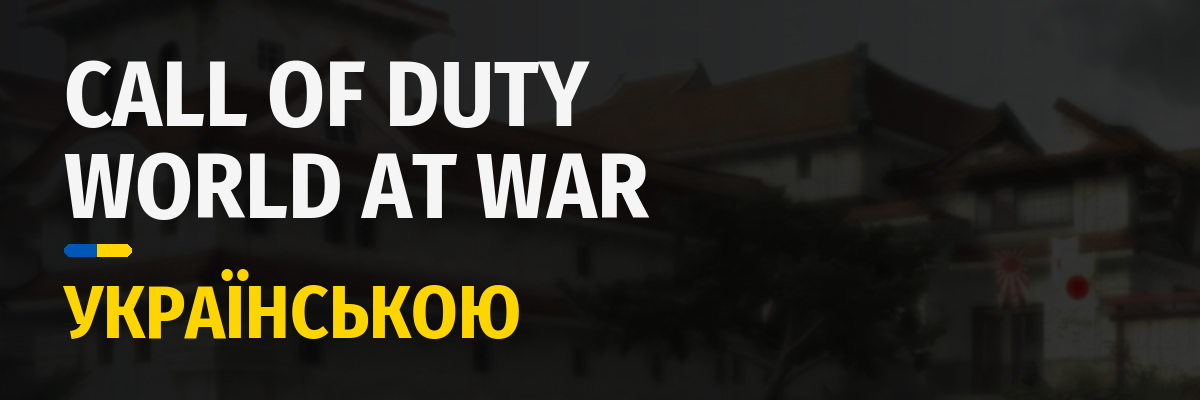
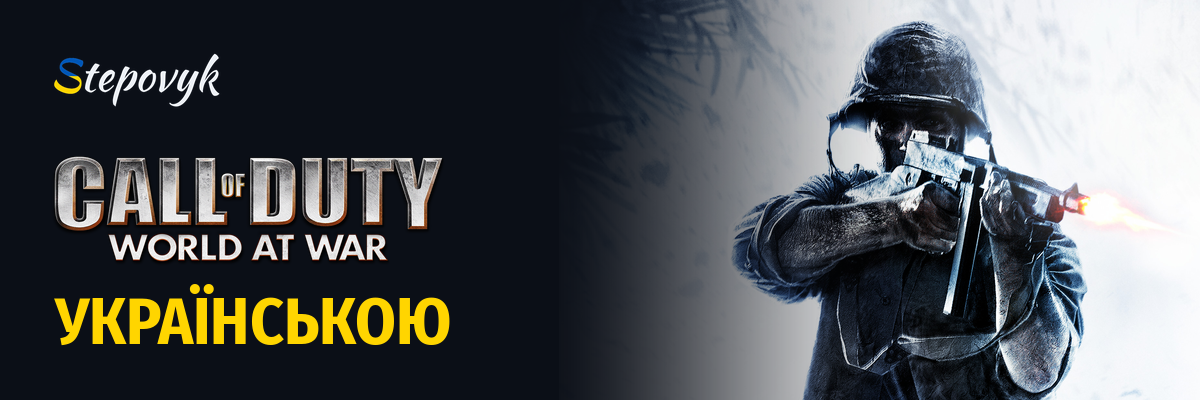
Банер і значок інсталятора у фірмовому стилі Stepovyk
Графіку тепер дає фірмовий набір, make_art.py лишає собі тільки скріншоти.

diff --git a/tools/make_art.py b/tools/make_art.py
@@ -1,102 +1,18 @@
-"""Графіка для релізу: банер інсталятора, обкладинки для сторінок, значок, аватар Telegram, скріншоти.
-Фони – скріншоти локалізованої гри (work/shots), шрифт – Fira Sans Condensed.
+"""Скріншоти для сторінок мода (docs/images): з work/shots у work/art.
+Обкладинка (docs/images/cover.jpg), банер і значок інсталятора (tools/installer/banner.png, icon.png) – з фірмового
+набору Stepovyk, тут не малюються.
 python tools/make_art.py"""
 import sys, pathlib
 ROOT = pathlib.Path(__file__).parent.parent
 sys.path.insert(0, str(ROOT / '.deps'))
-from PIL import Image, ImageDraw, ImageFont, ImageFilter, ImageEnhance
+from PIL import Image
 
 SHOTS = ROOT / 'work' / 'shots'
 ART = ROOT / 'work' / 'art'
-INST = ROOT / 'tools' / 'installer'
-FONT = ROOT / 'fonts'
-BLUE, YELLOW, WHITE = (0, 87, 183), (255, 213, 0), (245, 245, 245)
-
-
-def font(weight, size):
-    return ImageFont.truetype(str(FONT / f'FiraSansCondensed-{weight}.ttf'), size)
-
-
-BACKS = {  # чисті ділянки скріншотів, без тексту гри
-    'castle': ('06-mp-team.png', (300, 125, 1100, 440)),
-    'beach': ('mission-52.png', (180, 0, 1600, 590)),
-}
-
-
-def backdrop(src, size, darken=0.6, blur=1.2):
-    file, box = BACKS[src]
-    im = Image.open(SHOTS / file).convert('RGB').crop(box)
-    w, h = size
-    scale = max(w / im.width, h / im.height)
-    im = im.resize((round(im.width * scale), round(im.height * scale)), Image.LANCZOS)
-    x, y = (im.width - w) // 2, (im.height - h) // 2
-    im = im.crop((x, y, x + w, y + h)).filter(ImageFilter.GaussianBlur(blur))
-    im = ImageEnhance.Brightness(im).enhance(darken)
-    # м'яке затемнення зліва, щоб текст читався
-    shade = Image.linear_gradient('L').rotate(90).resize(size)
-    black = Image.new('RGB', size, (8, 9, 11))
-    return Image.composite(im, black, shade.point(lambda v: 90 + v * 165 // 255))
-
-
-def flag_bar(draw, x, y, w, h):
-    draw.rounded_rectangle((x, y, x + w, y + h), radius=h // 2, fill=BLUE)
-    draw.rounded_rectangle((x + w // 2, y, x + w, y + h), radius=h // 2, fill=YELLOW)
-    draw.rectangle((x + w // 2, y, x + w // 2 + h, y + h), fill=YELLOW)
-
-
-def title_card(size, src, pad, title_size, sub_size, tag=None):
-    w, h = size
-    im = backdrop(src, size)
-    d = ImageDraw.Draw(im)
-    t1 = font('Bold', title_size)
-    t2 = font('Bold', sub_size)
-    small = font('Medium', max(14, sub_size // 3))
-    y = (h - (title_size * 2 + sub_size + pad)) // 2
-    d.text((pad, y), 'CALL OF DUTY', font=t1, fill=WHITE)
-    d.text((pad, y + title_size), 'WORLD AT WAR', font=t1, fill=WHITE)
-    yb = y + title_size * 2 + pad // 3
-    flag_bar(d, pad, yb, round(sub_size * 0.9), round(sub_size * 0.16))
-    d.text((pad, yb + round(sub_size * 0.32)), 'УКРАЇНСЬКОЮ', font=t2, fill=YELLOW)
-    if tag:
-        d.text((pad, h - pad // 2 - small.size), tag, font=small, fill=(190, 194, 200))
-    return im
-
-
-def emblem(size):
-    """Знак «Ї»: суцільний синій квадрат зі скругленням, жовта літера."""
-    s = size * 4
-    im = Image.new('RGBA', (s, s), (0, 0, 0, 0))
-    d = ImageDraw.Draw(im)
-    d.rounded_rectangle((0, 0, s - 1, s - 1), radius=s // 5, fill=BLUE)
-    f = font('Bold', round(s * 0.78))
-    l, t, r, b = d.textbbox((0, 0), 'Ї', font=f, anchor='ls')
-    d.text(((s - (r - l)) // 2 - l, (s - (b - t)) // 2 - t), 'Ї', font=f, fill=YELLOW, anchor='ls')
-    return im.resize((size, size), Image.LANCZOS)
-
-
-def avatar(size):
-    """Аватар Telegram (обрізається колом): синє тло на весь квадрат, жовта «Ї»."""
-    s = size * 2
-    im = Image.new('RGB', (s, s), BLUE)
-    d = ImageDraw.Draw(im)
-    f = font('Bold', round(s * 0.62))
-    l, t, r, b = d.textbbox((0, 0), 'Ї', font=f, anchor='ls')
-    d.text(((s - (r - l)) // 2 - l, (s - (b - t)) // 2 - t), 'Ї', font=f, fill=YELLOW, anchor='ls')
-    return im.resize((size, size), Image.LANCZOS)
 
 
 def main():
     ART.mkdir(parents=True, exist_ok=True)
-    title_card((1200, 400), 'castle', 64, 92, 74).save(INST / 'banner.png')
-    tag = 'Українська локалізація від Stepovyk'
-    title_card((1920, 1080), 'beach', 140, 190, 150, tag).save(ART / 'cover-1920x1080.jpg', quality=92)
-    title_card((1280, 640), 'beach', 96, 118, 94, tag).save(ART / 'social-1280x640.png')
-    title_card((1280, 720), 'castle', 96, 128, 100, tag).save(ART / 'cover-1280x720.jpg', quality=92)
-    title_card((1600, 1200), 'beach', 130, 180, 140, tag).save(ART / 'logo-1600x1200.jpg', quality=92)  # ModDB
-    backdrop('beach', (1900, 300), darken=1.25, blur=0).save(ART / 'header-1900x300.jpg', quality=92)  # ModDB, без тексту
-    emblem(64).save(INST / 'icon.png')
-    emblem(512).save(ART / 'emblem-512.png')
-    avatar(640).save(ART / 'telegram-avatar.png')
     shots = ['01-menu', 'mission-44', 'mission-52', '04-missions', '02-settings', '05-zombies', '06-mp-team', '07-mp-class']
     for i, name in enumerate(shots, 1):
         Image.open(SHOTS / f'{name}.png').convert('RGB').save(ART / f'screen-{i:02d}.jpg', quality=92)

diff --git a/tools/make_release.py b/tools/make_release.py
@@ -17,7 +17,7 @@ WaW-Ukrainian.dat:
 Латки зберігають і старі байти: інсталятор перевіряє, що латає саме ту версію гри, а видалення
 повертає старі байти назад без резервних копій великих файлів.
 
-python tools/make_release.py   (після tools/build.py і tools/make_art.py)"""
+python tools/make_release.py   (після tools/build.py)"""
 import sys, struct, zlib, pathlib, zipfile
 sys.path.insert(0, str(pathlib.Path(__file__).parent))
 from paths import ROOT, REPLACED, ADDED, original, built
